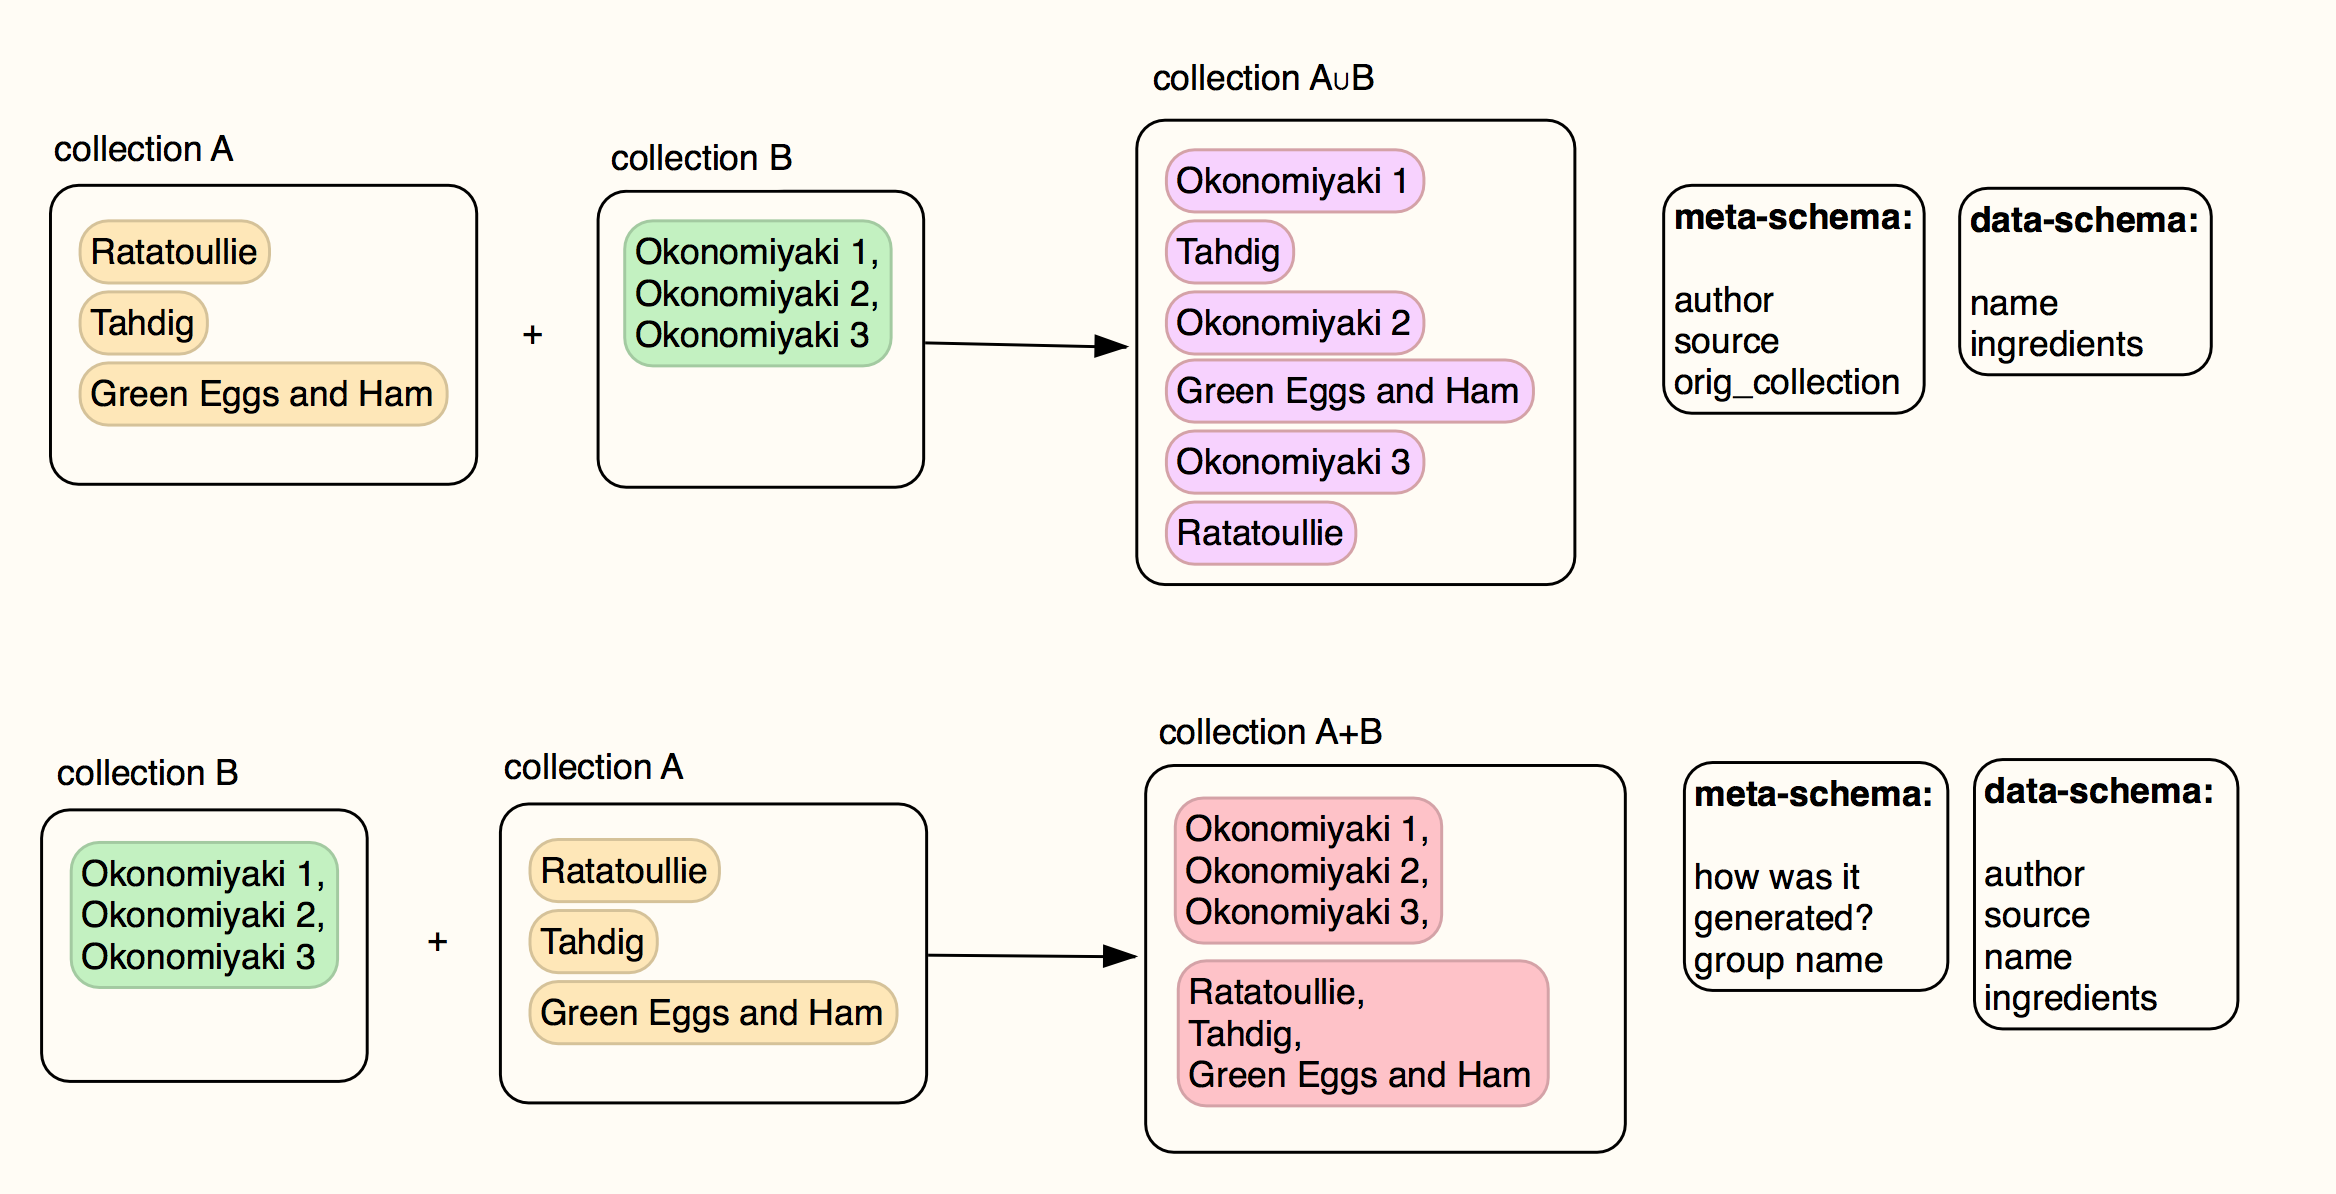
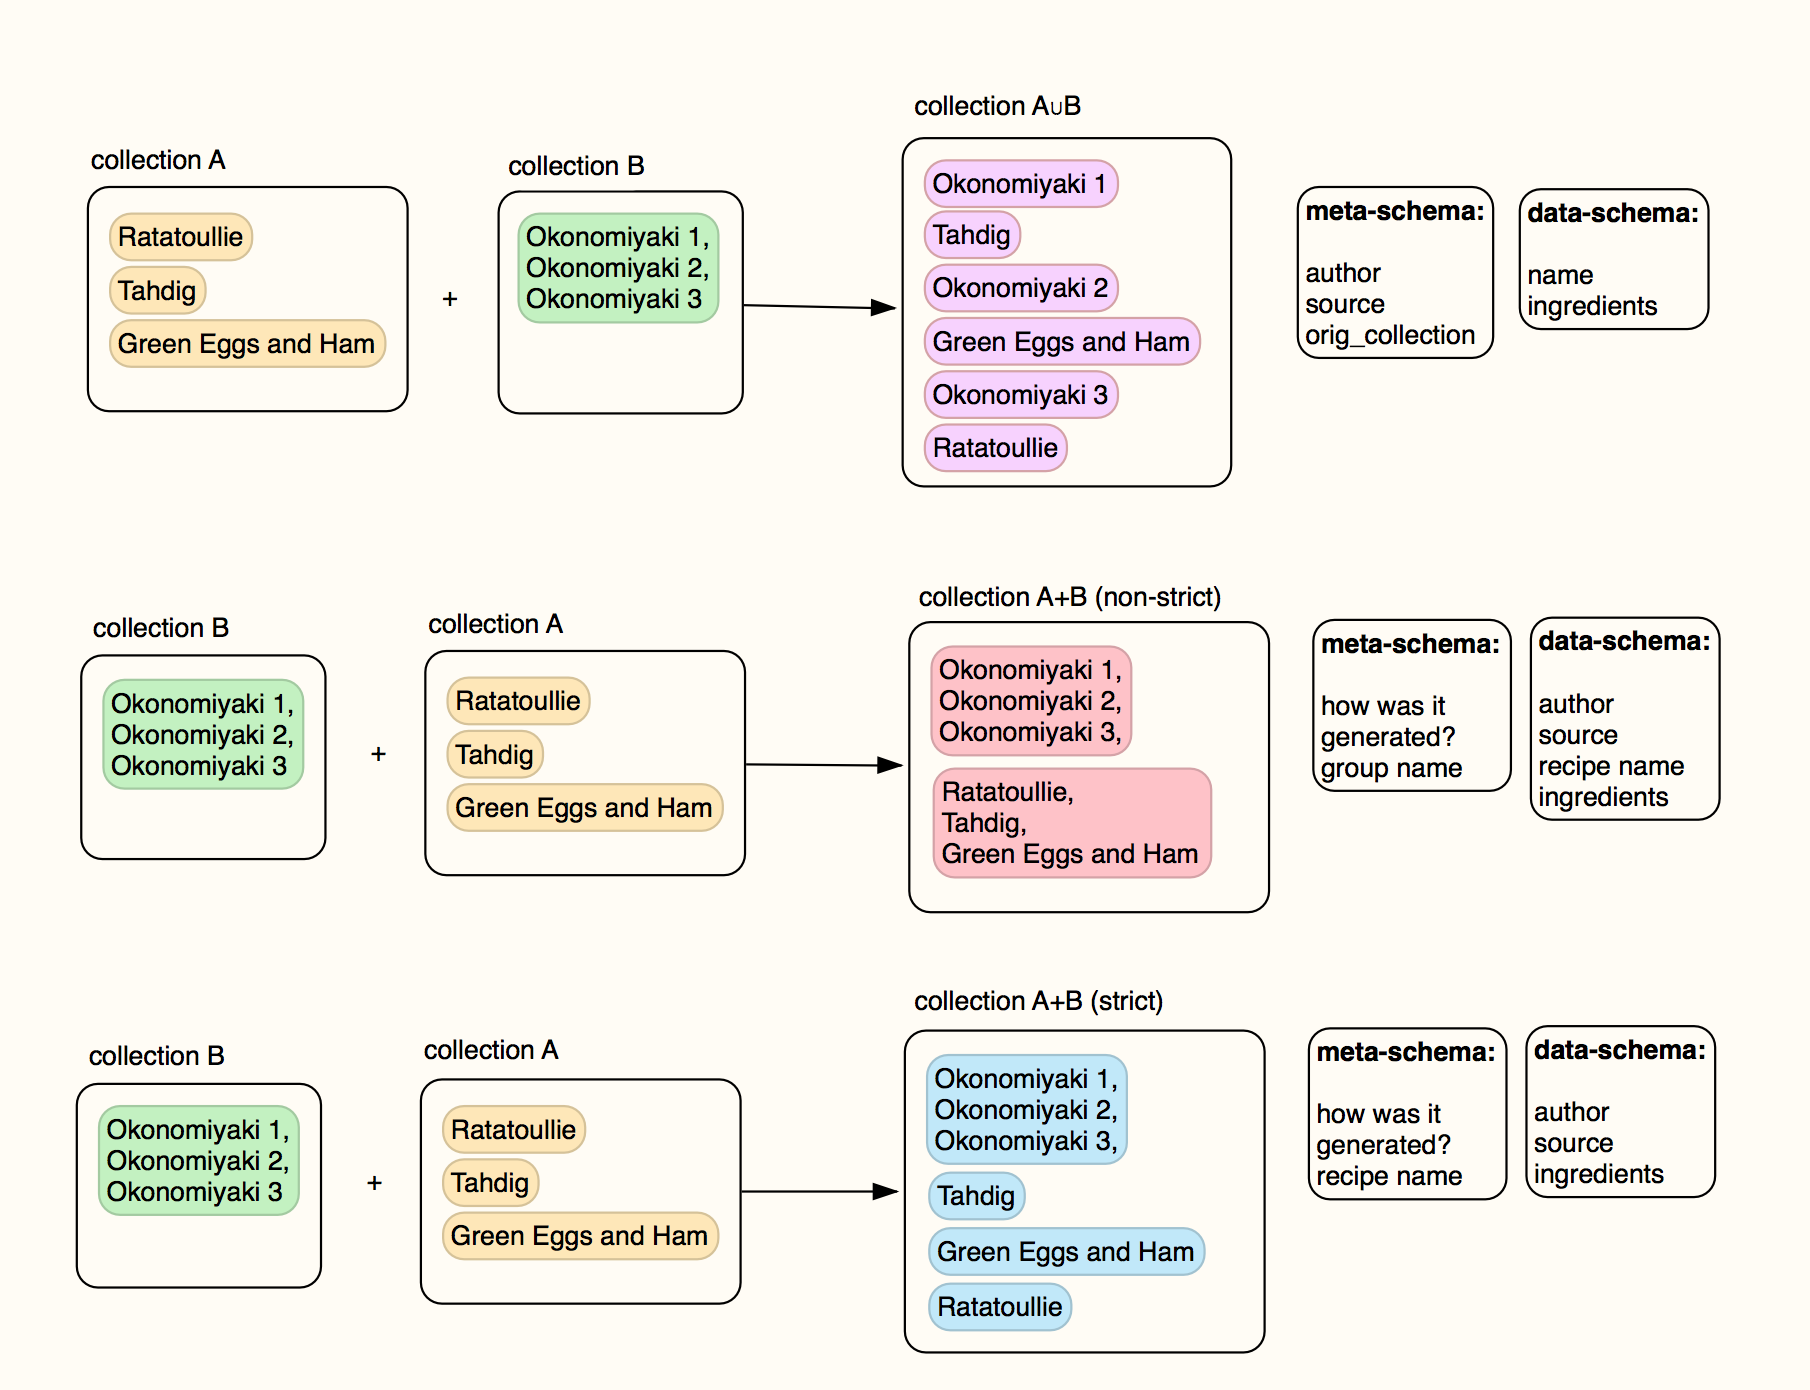
added a third example merge

diff --git a/prov-schemas/README.md b/prov-schemas/README.md
@@ -14,13 +14,13 @@ This scenario is for named graphs consisting of multiple versions of the same re
 
 ### merging collections
 
-*correct this bit if you disagree*
-
 Taking the `individual_recipes/` and `same_recipe/` templates as an example, how would the provevance file change if each of the `same_recipe/` graphs were separated into individual recipes?
 
 Ordinarily, this transformation would be lossy, as the `individual_recipes` schema does not include a field for `source` and `author`. However, during the merge, the provenance structure of the graphs extracted from `same_recipes` is expanded, adding this information into the meta-schema.
 
-Conversely, merging `individual_recipes/` into `same_recipes` would produce a second named graph, where the individual recipes are grouped by theme (or, if the relationship is strictly between recipes that are the same, it would make a new named graph for each separate recipe).
+If we relax the 'same-recipe' rule to allow recipes to be grouped by theme, merging `individual_recipes/` into `same_recipes` could produce a second named graph, where the individual recipes are grouped by their existing relationship.
+
+If, instead the 'same-recipe' rule is enforced on merging the two collections (e.g. if the schema required each recipe to have the same name), merging `individual_recipes/` into `same_recipes` would produce a new named graph for each separate recipe in the collection (into which other recipes with the same name could be incorporated later).
 
 Visually, this would look like:
 
